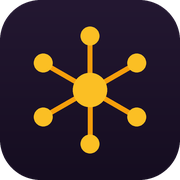
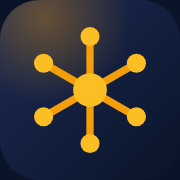
Patch 31: central de avisos, ATA pela aplicadora, prazo da pre-supervisao (D-1), estruturas por coordenadora, evolucao com opcao de programas, seletor de equipe ao voltar, lista de presenca Equilibrium, pendencias desde 01/10, quadro de vencimentos das avaliacoes, aba Evolucoes nova, tema ambar e ic

diff --git a/styles/tema-aurora.css b/styles/tema-aurora.css
@@ -264,3 +264,43 @@ label.check { display: inline-flex; align-items: center; gap: 7px; font-size: 12
     .app-main > *, .modal { animation: none; }
     .nav-item, .btn, .cartao, .kpi { transition: none; }
 }
+
+/* ══════════════ Patch 31 — cor de acao ambar em todos os perfis + sidebar com ambar (opcao C) ══════════════
+   Decisao de Wess (01/10/2026): o ambar Equilibrium (#D97706) vira a cor de acao de todo o sistema
+   (gestao, equipe, call center e familia), o simbolo da marca e o item ativo do menu ficam em ambar,
+   e o favicon segue o mesmo esquema (ambar sobre o navy Aurora). So estetica: nenhuma funcao muda. */
+:root, [data-tema="gestao"], [data-tema="equipe"], [data-tema="recepcao"], [data-tema="familia"] {
+    --acao: #D97706; --acao-forte: #B45309; --acao-soft: rgba(217, 119, 6, .14);
+    --chip: linear-gradient(135deg, #FBBF24 0%, #D97706 100%);
+    --mao: #FCD34D; --pilula: #FDF9F0; --pilula-ink: #3B2506;
+    --grad-primary: linear-gradient(135deg, #B45309 0%, #F59E0B 100%);
+    --grad-hover:   linear-gradient(135deg, #92400E 0%, #D97706 100%);
+    --glow-blue:    0 8px 24px rgba(245, 158, 11, .38);
+    --glow-ambar:   0 8px 24px rgba(245, 158, 11, .38);
+}
+[data-modo="escuro"], [data-modo="escuro"][data-tema="gestao"], [data-modo="escuro"][data-tema="equipe"],
+[data-modo="escuro"][data-tema="recepcao"], [data-modo="escuro"][data-tema="familia"] { --acao-soft: rgba(245, 158, 11, .24); }
+
+/* sidebar: aurora dourada suave sobre o navy, simbolo ambar, titulos de grupo dourados */
+.sidebar::before {
+    background: radial-gradient(closest-side, rgba(245, 158, 11, .42), transparent 70%),
+                radial-gradient(closest-side, rgba(47, 111, 237, .35), transparent 70%);
+}
+.marca .simbolo { background: var(--grad-primary); color: #1A1208; box-shadow: var(--glow-ambar); }
+.login-pagina .marca .simbolo { background: var(--grad-primary); color: #1A1208; }
+.nav-grupo-titulo { color: #F3B63D; opacity: .85; }
+.nav-item { --nav-accent: #F3B63D; }
+/* item ativo em ambar com texto branco (opcao C) */
+.nav-item.ativa, .nav-item.ativa:hover, [data-modo="escuro"] .nav-item.ativa {
+    background: linear-gradient(135deg, #B45309 0%, #F59E0B 100%); color: #fff;
+    box-shadow: 0 6px 18px rgba(245, 158, 11, .35);
+}
+.nav-item.ativa .icone { color: #fff; }
+.nav-item.ativa .nav-conta { background: #fff; color: #B45309; }
+/* avatar da sidebar continua colorido por nome (corAvatar); o avatar padrao segue o ambar */
+.avatar { box-shadow: var(--glow-ambar); }
+@media (max-width: 720px) {
+    .barra-celular button.ativo { color: #B45309; }
+    .barra-celular button.ativo .icone { background: rgba(217, 119, 6, .14); }
+    .cab-cel-marca .simbolo { background: linear-gradient(135deg, #B45309 0%, #F59E0B 100%); color: #1A1208; }
+}

diff --git a/styles/components.css b/styles/components.css
@@ -2570,10 +2570,10 @@
     position: fixed; right: 22px; bottom: 26px; width: 50px; height: 50px; border-radius: 999px; border: none; cursor: pointer; z-index: 250;
     background: linear-gradient(135deg, var(--side-bg-2, #1B2A54), var(--side-bg, #0A1428)); color: #fff;
     display: flex; align-items: center; justify-content: center;
-    box-shadow: 0 10px 28px rgba(10, 20, 40, .35), 0 0 0 4px rgba(124, 58, 237, .12);
+    box-shadow: 0 10px 28px rgba(10, 20, 40, .35), 0 0 0 4px rgba(245, 158, 11, .16);
     transition: transform .18s ease, box-shadow .18s ease;
 }
-.avisos-fab:hover { transform: translateY(-2px) scale(1.04); box-shadow: 0 14px 32px rgba(10, 20, 40, .4), 0 0 0 5px rgba(124, 58, 237, .16); }
+.avisos-fab:hover { transform: translateY(-2px) scale(1.04); box-shadow: 0 14px 32px rgba(10, 20, 40, .4), 0 0 0 5px rgba(245, 158, 11, .22); }
 .avisos-fab svg { width: 22px; height: 22px; }
 .avisos-badge {
     position: absolute; top: -3px; right: -3px; min-width: 18px; height: 18px; padding: 0 5px; border-radius: 999px;
